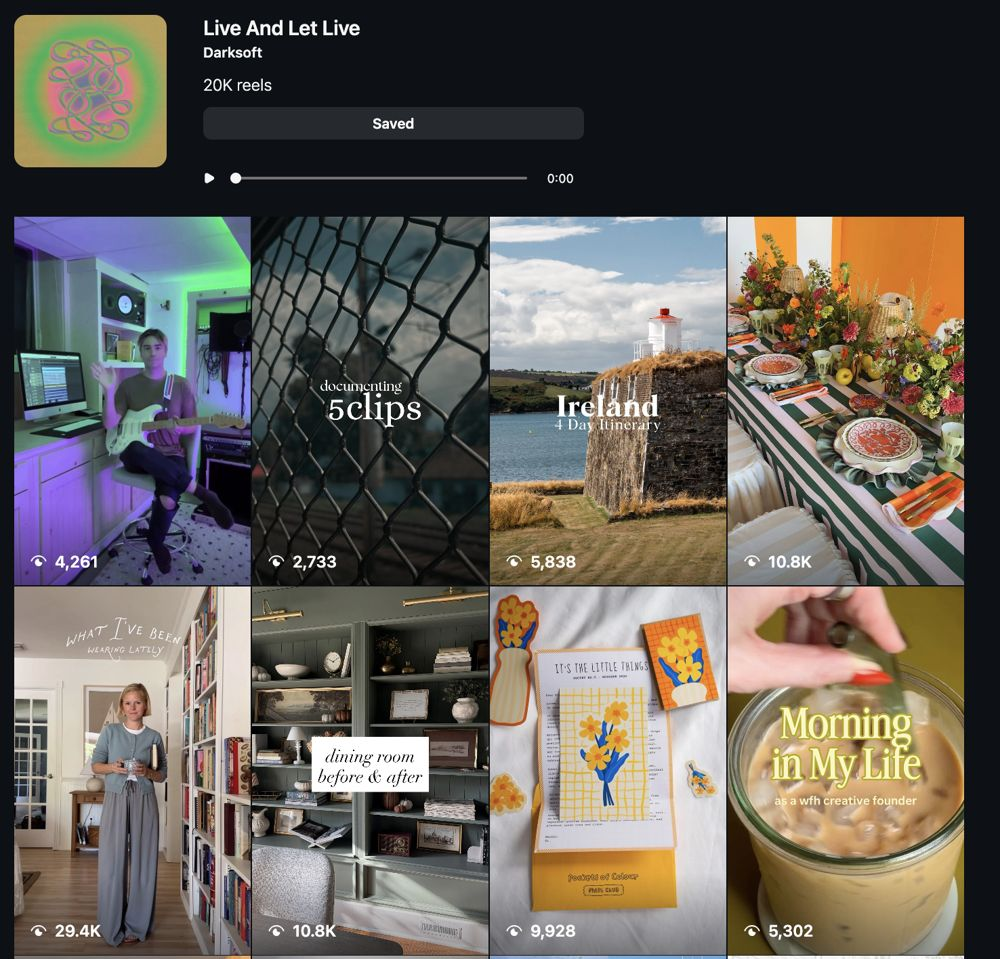
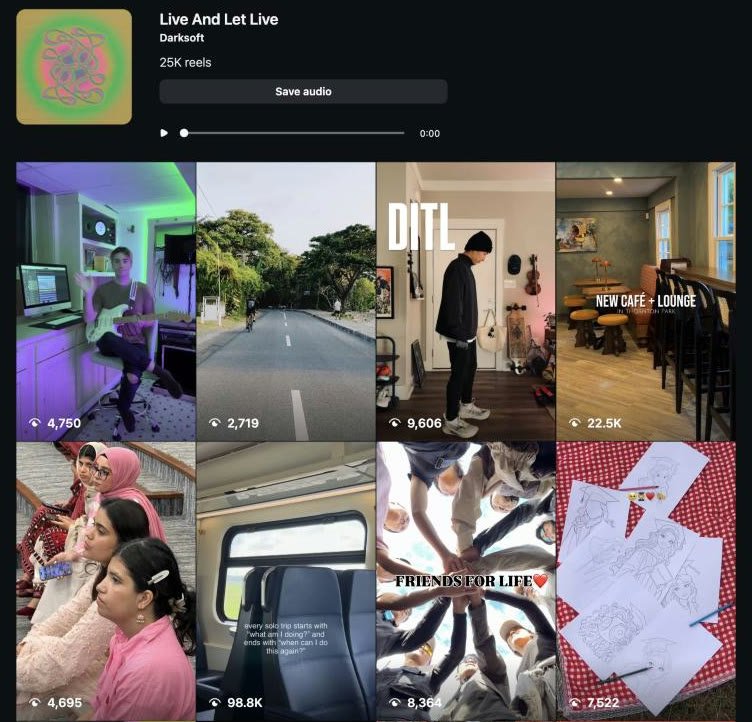
Update Live And Let Live reels count to 25,000 on the post, sync page and llms.txt with a new screenshot; post: broaden the creators line, link Erica Miller and Casual Hex

diff --git a/sync.html b/sync.html
@@ -1,7 +1,7 @@
 ---
 layout: default
 title: "Sync Licensing — Darksoft"
-description: "License Darksoft's dream pop and jangly indie rock for film, TV, ads, and social. Featured in short films for Tulpa Club and Doom Squad, an upcoming TV mini-series, and 20,000+ Instagram Reels. Licensing can be handled directly with the artist."
+description: "License Darksoft's dream pop and jangly indie rock for film, TV, ads, and social. Featured in short films for Tulpa Club and Doom Squad, an upcoming TV mini-series, and 25,000 Instagram Reels. Licensing can be handled directly with the artist."
 og_title: "Sync Licensing — Darksoft"
 og_image: "/assets/sync/tulpa-club-season-3-still.jpg"
 permalink: /sync/
@@ -22,7 +22,7 @@ body_class: "sync-page"
 
     <ul class="sync-stats" aria-label="Sync highlights">
       <li><strong>Film &amp; TV</strong><span>placements, including an upcoming TV mini-series</span></li>
-      <li><strong>20,000+</strong><span>Instagram Reels using “Live And Let Live”</span></li>
+      <li><strong>25,000</strong><span>Instagram Reels using “Live And Let Live”</span></li>
       <li><strong>Millions</strong><span>of views across those Reels</span></li>
       <li><strong>Direct</strong><span>licensing available with the artist</span></li>
     </ul>
@@ -70,14 +70,14 @@ body_class: "sync-page"
     <div class="sync-feature">
       <a href="https://www.instagram.com/reels/audio/999822731741752/" target="_blank" rel="noopener">
         <img src="/assets/sync/live-and-let-live-instagram-reels.webp"
-             alt="Instagram audio page for “Live And Let Live” by Darksoft showing 20K reels"
-             loading="lazy" width="1000" height="959">
+             alt="Instagram audio page for “Live And Let Live” by Darksoft showing 25K reels"
+             loading="lazy" width="752" height="722">
       </a>
       <div class="sync-feature-text">
         <h3>“Live And Let Live”</h3>
         <p class="sync-meta">From <em>Relativism</em> (2024)</p>
         <p>
-          Creators have used “Live And Let Live” in more than 20,000 Instagram Reels, and the number keeps climbing:
+          Creators have used “Live And Let Live” in 25,000 Instagram Reels, and the number keeps climbing:
           room makeovers, travel diaries, studio sessions, table settings, morning routines. Individual Reels have
           reached tens of thousands of views each, adding up to millions of plays for the song across Instagram.
         </p>

diff --git a/_posts/2026-11-01-the-story-behind-live-and-let-live.md b/_posts/2026-11-01-the-story-behind-live-and-let-live.md
@@ -1,7 +1,7 @@
 ---
 title: "The Story Behind “Live And Let Live”"
-subtitle: "How a song about acceptance ended up in over 20,000 Instagram Reels."
-description: "How a Darksoft song about acceptance ended up in over 20,000 Instagram Reels and nearly 2 million Spotify streams, and what it means to me."
+subtitle: "How a song about acceptance ended up in 25,000 Instagram Reels."
+description: "How a Darksoft song about acceptance ended up in 25,000 Instagram Reels and nearly 2 million Spotify streams, and what it means to me."
 date: 2026-11-01 10:00:00 -0500
 image: /assets/blog/the-story-behind-live-and-let-live.jpg
 image_alt: "The Relativism album cover: looping pink and green ribbons over a glowing pink and green field on a gold background"
@@ -9,7 +9,7 @@ image_caption: "[*Relativism*](/discography/relativism/) album artwork by Erica 
 tags: [behind the songs, Relativism]
 ---
 
-Something is happening with my song "[Live And Let Live](/lyrics/relativism/live_and_let_live/)." As of November 2026, it's been used in over 20,000 [Instagram Reels](https://www.instagram.com/reels/audio/999822731741752/). It's nearing 2 million streams on [Spotify](https://open.spotify.com/track/2cTGPhd0rCh0G2LpeooRI1). The song recently hit 100,000 views on [YouTube](https://www.youtube.com/watch?v=NIlqJWXOtSU), with creators soundtracking their videos with it there too.
+Something is happening with my song "[Live And Let Live](/lyrics/relativism/live_and_let_live/)." As of November 2026, it's been used in 25,000 [Instagram Reels](https://www.instagram.com/reels/audio/999822731741752/). It's nearing 2 million streams on [Spotify](https://open.spotify.com/track/2cTGPhd0rCh0G2LpeooRI1). The song recently hit 100,000 views on [YouTube](https://www.youtube.com/watch?v=NIlqJWXOtSU), with creators soundtracking their videos with it there too.
 
 <div class="lyrics-player">
   <iframe src="https://open.spotify.com/embed/track/2cTGPhd0rCh0G2LpeooRI1?theme=0" title="Play Live And Let Live by Darksoft on Spotify" width="100%" height="80" frameborder="0" allow="autoplay; clipboard-write; encrypted-media; fullscreen; picture-in-picture" loading="lazy"></iframe>
@@ -27,7 +27,7 @@ I wrote this one because I feel there is too much unnecessary division in the wo
 
 I first noticed the Reels numbers climbing when a fitness trainer friend in Oregon messaged me that they'd seen someone post it. And then more and more people kept sending me these messages!
 
-It's been crazy to watch people decide to soundtrack their posts with the song. Creators, parents with their kids, people graduating, hiking, scuba diving, cooking and more.
+It's been crazy to watch people decide to soundtrack their posts with the song, from all over the world. Creators, parents with their kids, people graduating, hiking, traveling the world, scuba diving, cooking and more.
 
 Apparently, a lot of vegans are using it too. As someone commented on [this post of romping piglets](https://www.instagram.com/p/DfPxbaKCgUL/), "Your song is always on vegan posts." 😂
 
@@ -78,7 +78,7 @@ The song was mixed and mastered by [Brian Fisher](https://briankfisher.com/work)
 
 ## The artwork
 
-The artwork for *Relativism* is by Erica Miller, a great tattoo artist out of Portland, Oregon. She has this cool abstract squiggly line aesthetic that feels symbolic in a way.
+The artwork for *Relativism* is by [Erica Miller](https://www.instagram.com/rickysfreshness/), a great tattoo artist out of Portland, Oregon, who also plays in [Casual Hex](https://casualhex.bandcamp.com/). She has this cool abstract squiggly line aesthetic that feels symbolic in a way.
 
 We went through a few ideations, and this squiggly pattern stood out to me as a possible symbol or interpretation of the concept of relativism. Take it or leave it. I just like how it looks.
 
